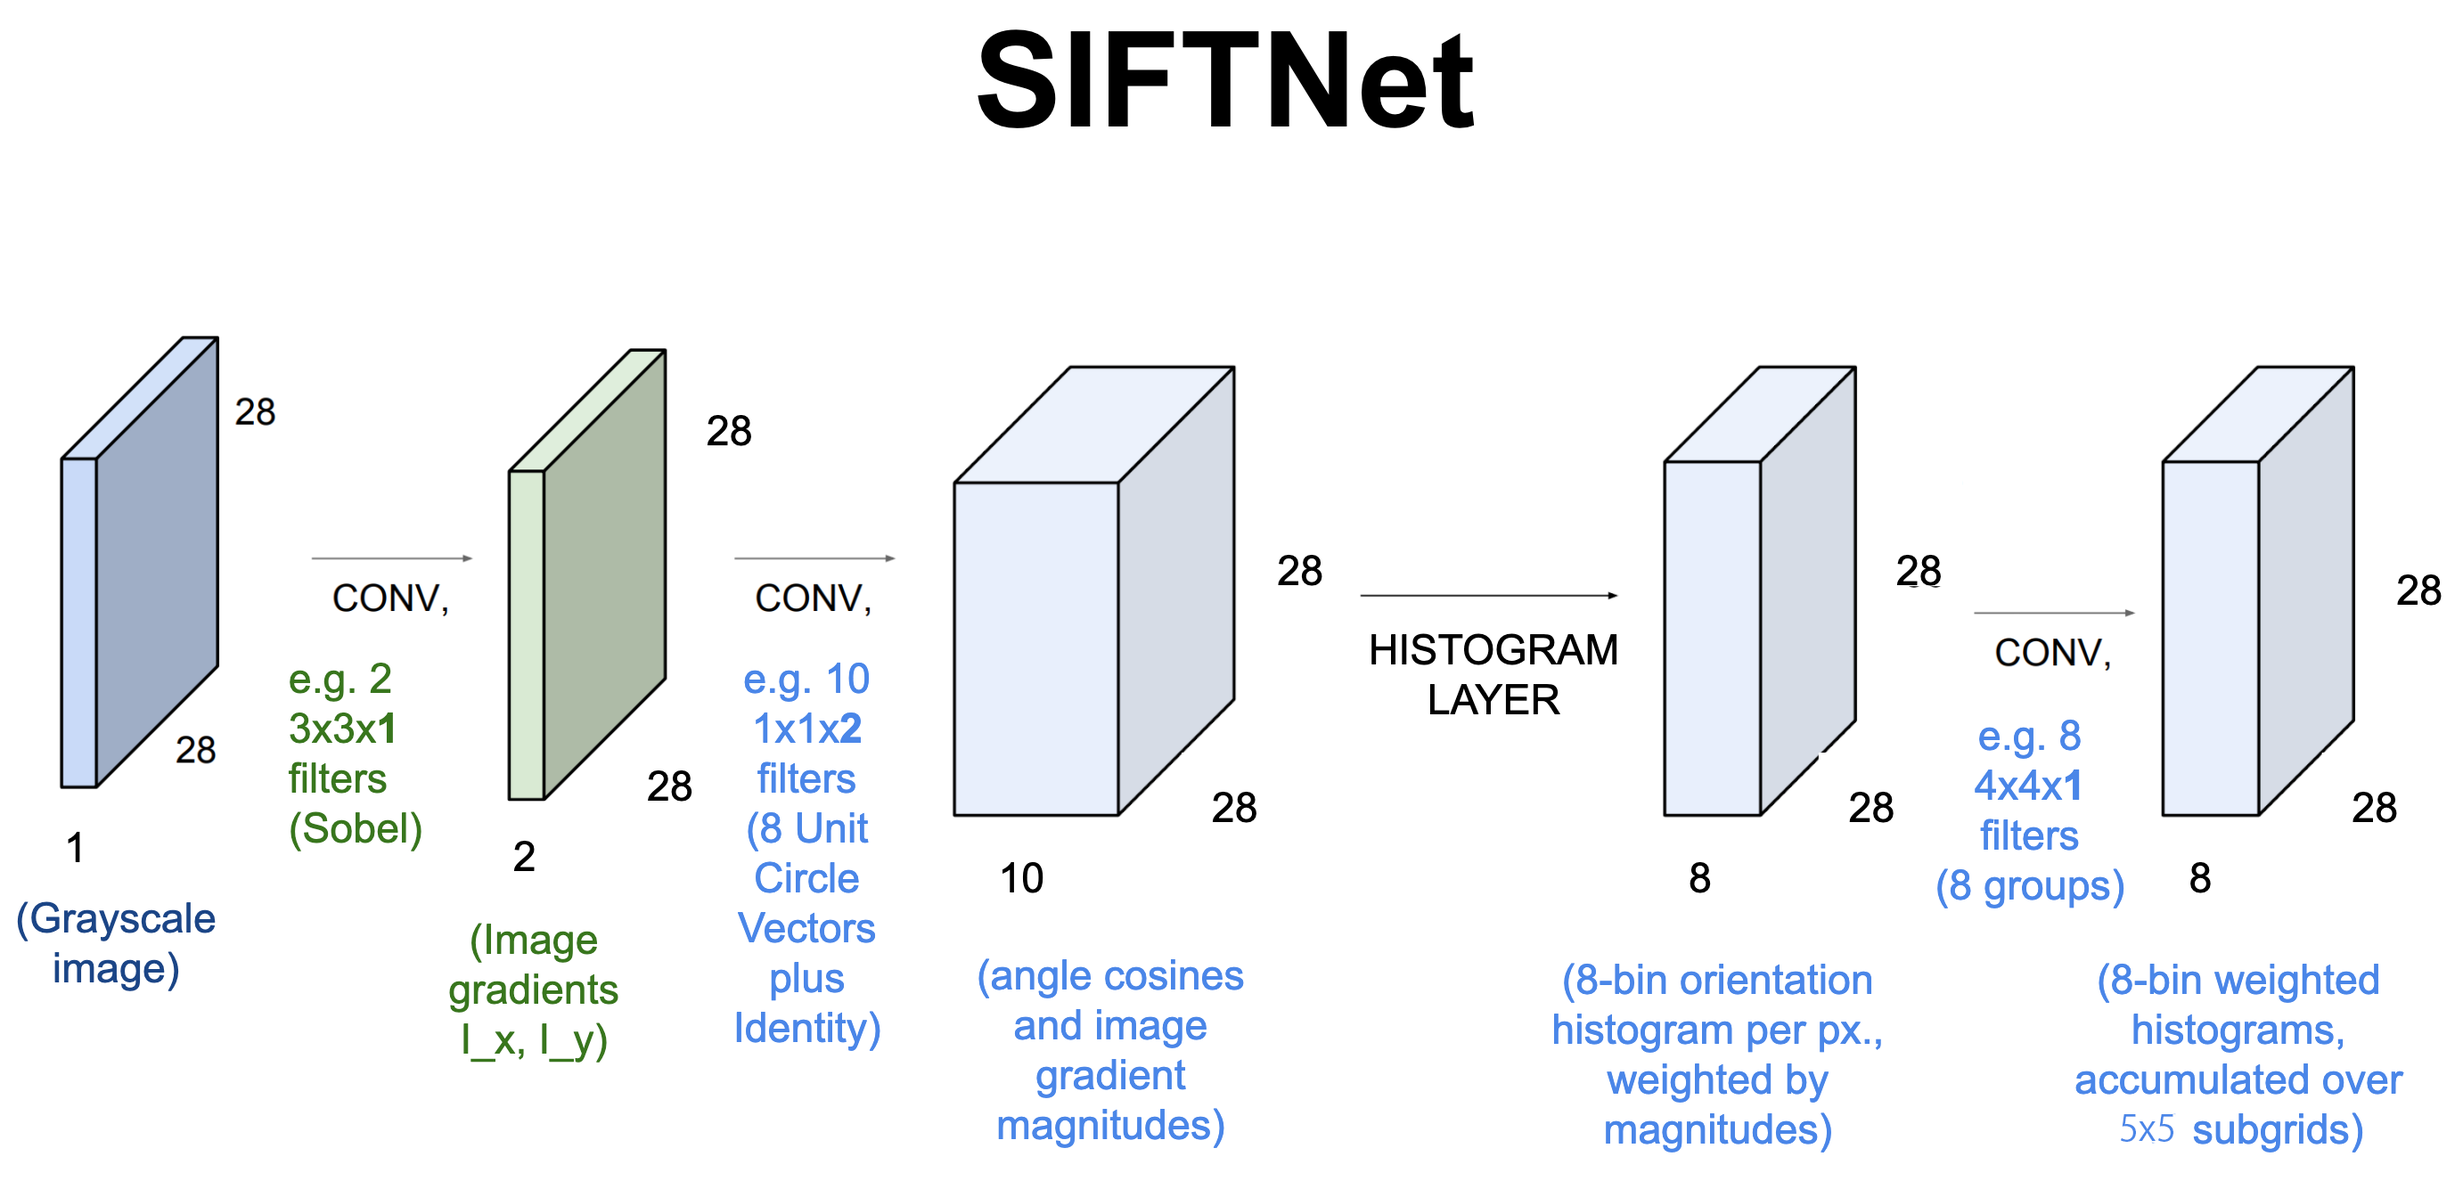
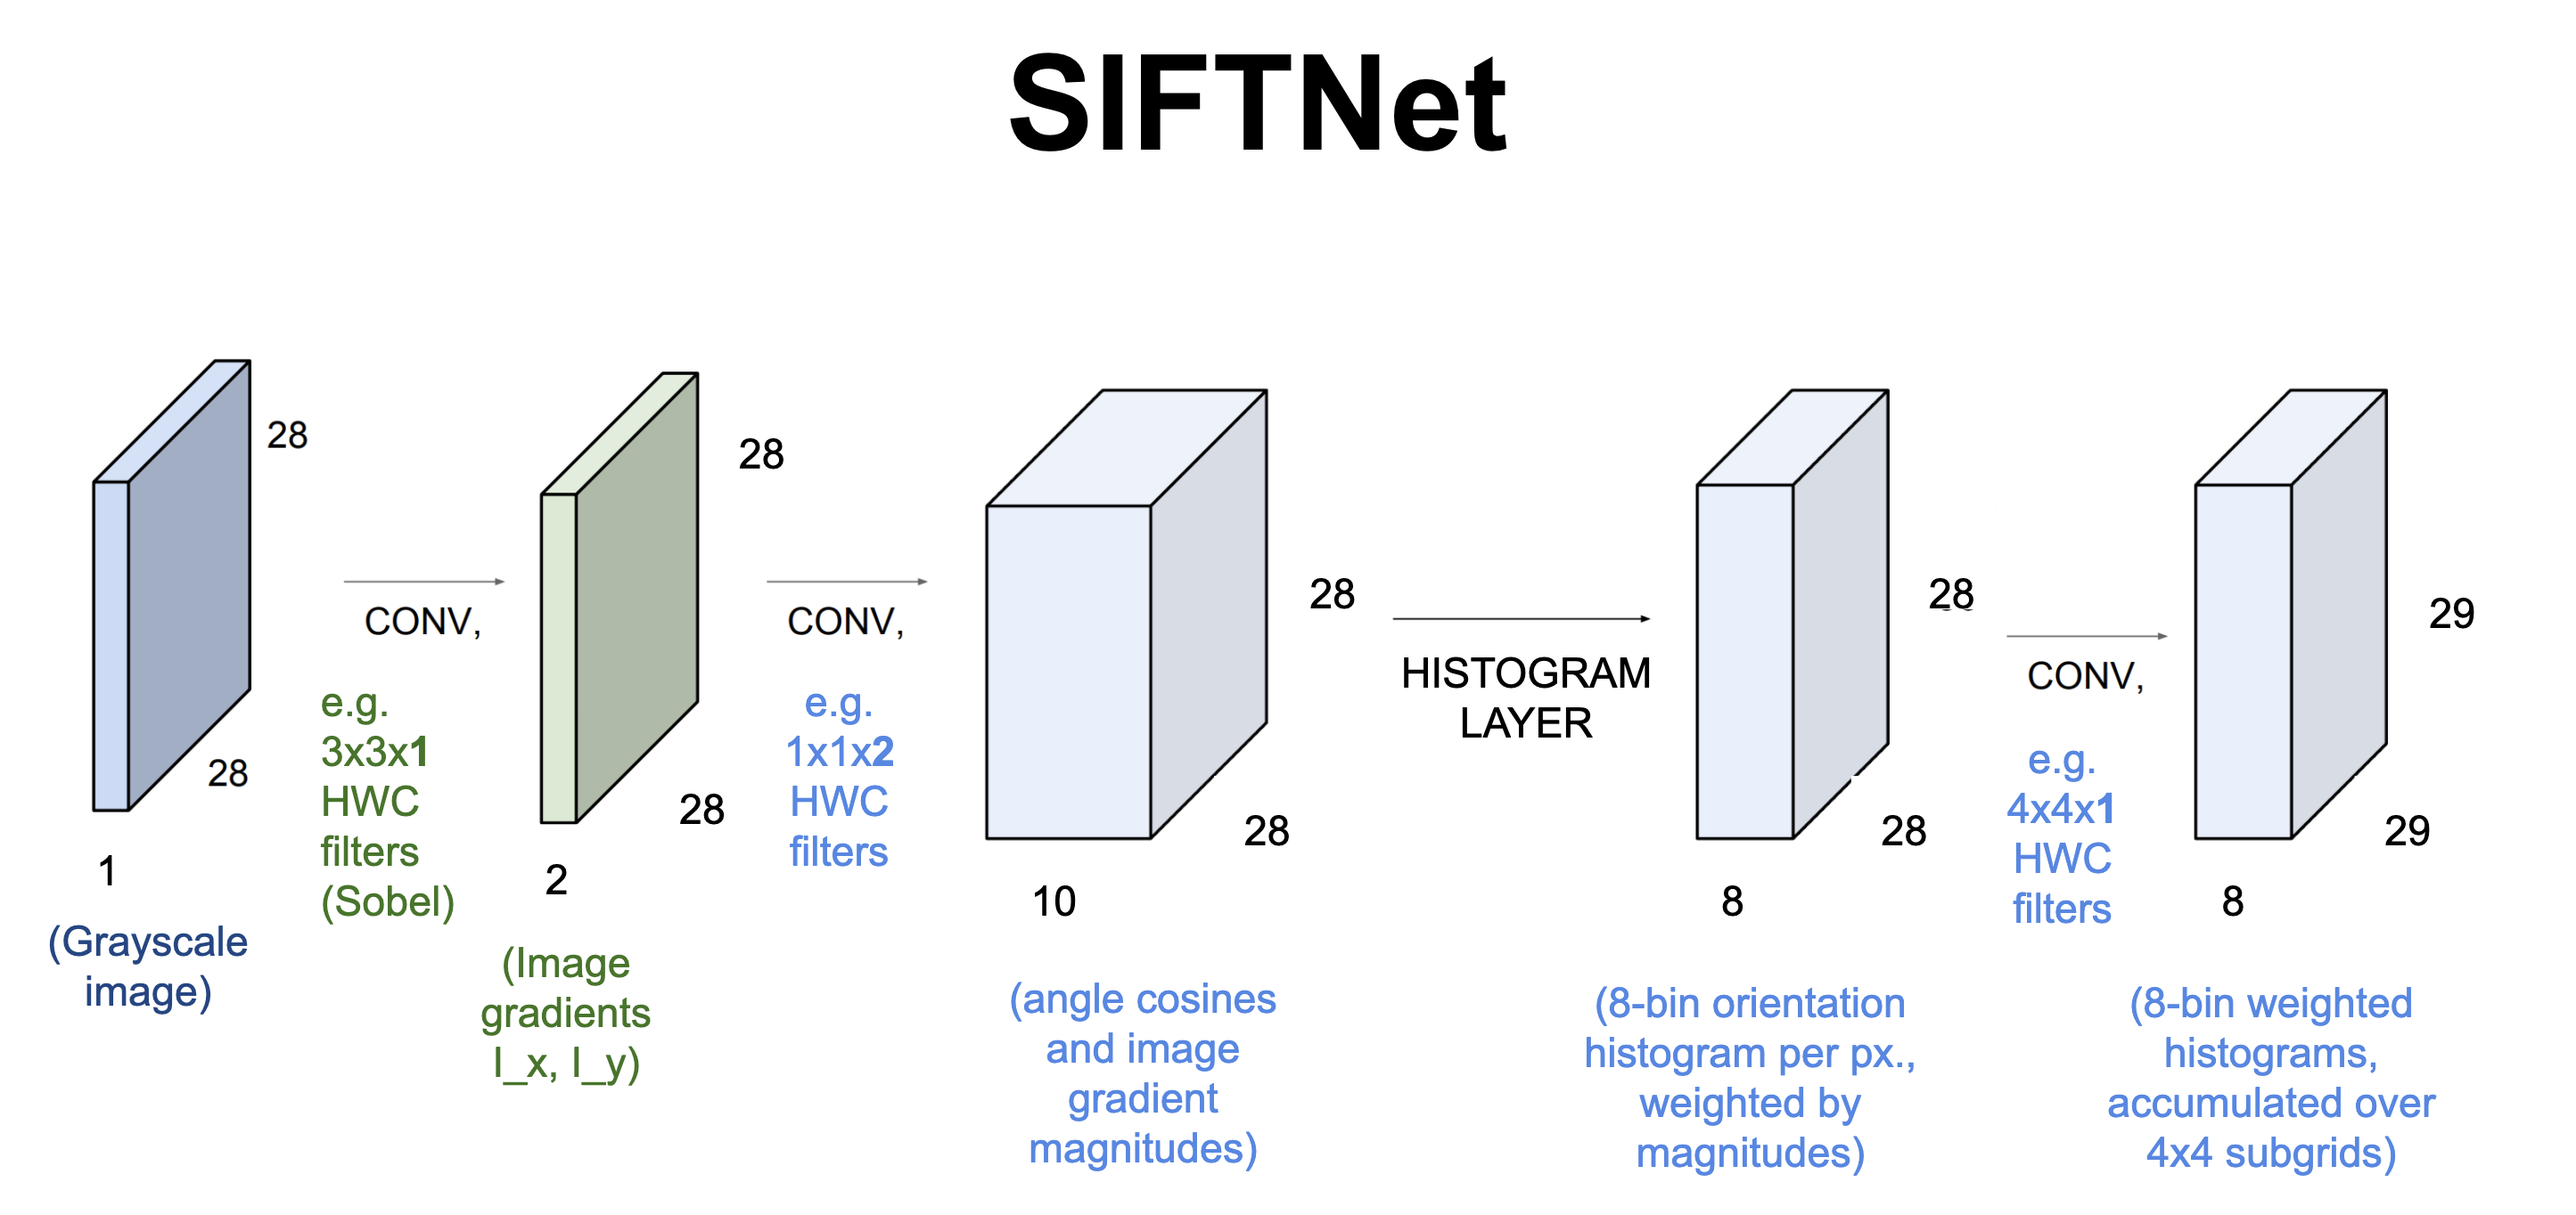
updated SIFTNet figure + ANMS extra credit instructions

diff --git a/proj2.md b/proj2.md
@@ -54,7 +54,7 @@ The original Harris corner detector is described in the lecture materials and Sz
 
 After passing images through the entire network, we still need to extract specific coordinates as our interest points, which is done in `get_interest_points()` (you will implement this) in `HarrisNet.py`.
 
-## Part 2: SiftNet
+## Part 2: SIFTNet
 <center>
     <img src="images/proj2/SIFTNet.png">
     <br>
@@ -62,13 +62,13 @@ After passing images through the entire network, we still need to extract specif
     <br><br>
 </center>
 
-You will implement a SIFT-like local feature based on the lecture materials and Szeliski 4.1.2. We will be implementing Sift using a neaural network - SiftNet. This network has 4 layers (which you will have to implement unless specified otherwise), described briefly below:
+You will implement a SIFT-like local feature based on the lecture materials and Szeliski 4.1.2. We will be implementing Sift using a neaural network - SIFTNet. This network has 4 layers (which you will have to implement unless specified otherwise), described briefly below:
 * **ImageGradientsLayer** - computes image gradients in each direction (already implemented for you).
 * **SIFTOrientationLayer** - extracts gradient information along each orientation direction. In the original SIFT, we would be trying to find the contributions of our gradients to each orientation bin. Note that we can do this by trying to find the contribution of each gradient along each orientation vector, which is the same as finding the [projection](https://en.wikipedia.org/wiki/Vector_projection) of our gradients onto our orientation vectors. Recall that this can be done using dot products!
 * **HistogramLayer** - creates weighted histograms over the entire image.
 * **SubGridAccumulationLayer** - creates feature vectors that accumulate histograms from a region.
 
-After passing images through the network we will have feature vectors over the entire image, but we need only want features from the specific interest point locations that we found. This will be done in `get_siftnet_features()` (you will implement this) in `SiftNet.py`.
+After passing images through the network we will have feature vectors over the entire image, but we need only want features from the specific interest point locations that we found. This will be done in `get_SIFTNet_features()` (you will implement this) in `SIFTNet.py`.
 
 ## Part 3: Feature Matching
 You will implement the "ratio test" or "nearest neighbor distance ratio test" method of matching local features as described in the lecture materials and Szeliski 4.1.3. See equation 4.18 in particular. You will implement this in `student_feature_matching.py`. The potential matches that pass the ratio test the easiest should have a greater tendency to be correct matches--think about why.
@@ -94,6 +94,7 @@ We have provided a set of tests for you to evaluate your implementation. We have
 * up to 5 pts: The simplest thing to do is to experiment with the numerous SIFT parameters: How big should each feature be? How many local cells should it have? How many orientations should each histogram have? Different normalization schemes can have a significant effect as well. Don't get lost in parameter tuning though.
 * up to 5 pts: Speeding up the entire pipeline to be faster than our solution.
 * up to 5 pts: Annotating and testing on your own images (provide visualizations as well).
+* up to 5 pts: Try the adaptive non-maximum suppression discussed in the textbook. Please implement this as a separate layer (i.e. write a new layer called `ANMSLayer` instead of implementing inside of `NMSLayer`)!
 
 There is a max of 10 pts of extra credit for every student.
 
@@ -106,7 +107,7 @@ If you choose to do anything extra, add slides _after the slides given in the te
 
 ## Rubric
 * +35 pts: `HarrisNet` implementation in `HarrisNet.py` (the final score for this section will be an average of your implementations from the 9/18 and 9/27 submissions)
-* +35 pts: `SiftNet` implementation in `SiftNet.py`
+* +35 pts: `SIFTNet` implementation in `SIFTNet.py`
 * +10 pts: Feature matching implementation in `student_feature_matching.py`
 * +20 pts: Report with several examples of hybrid images
 * -5\*n pts: Lose 5 points for every time you do not follow the instructions for the hand-in format.
